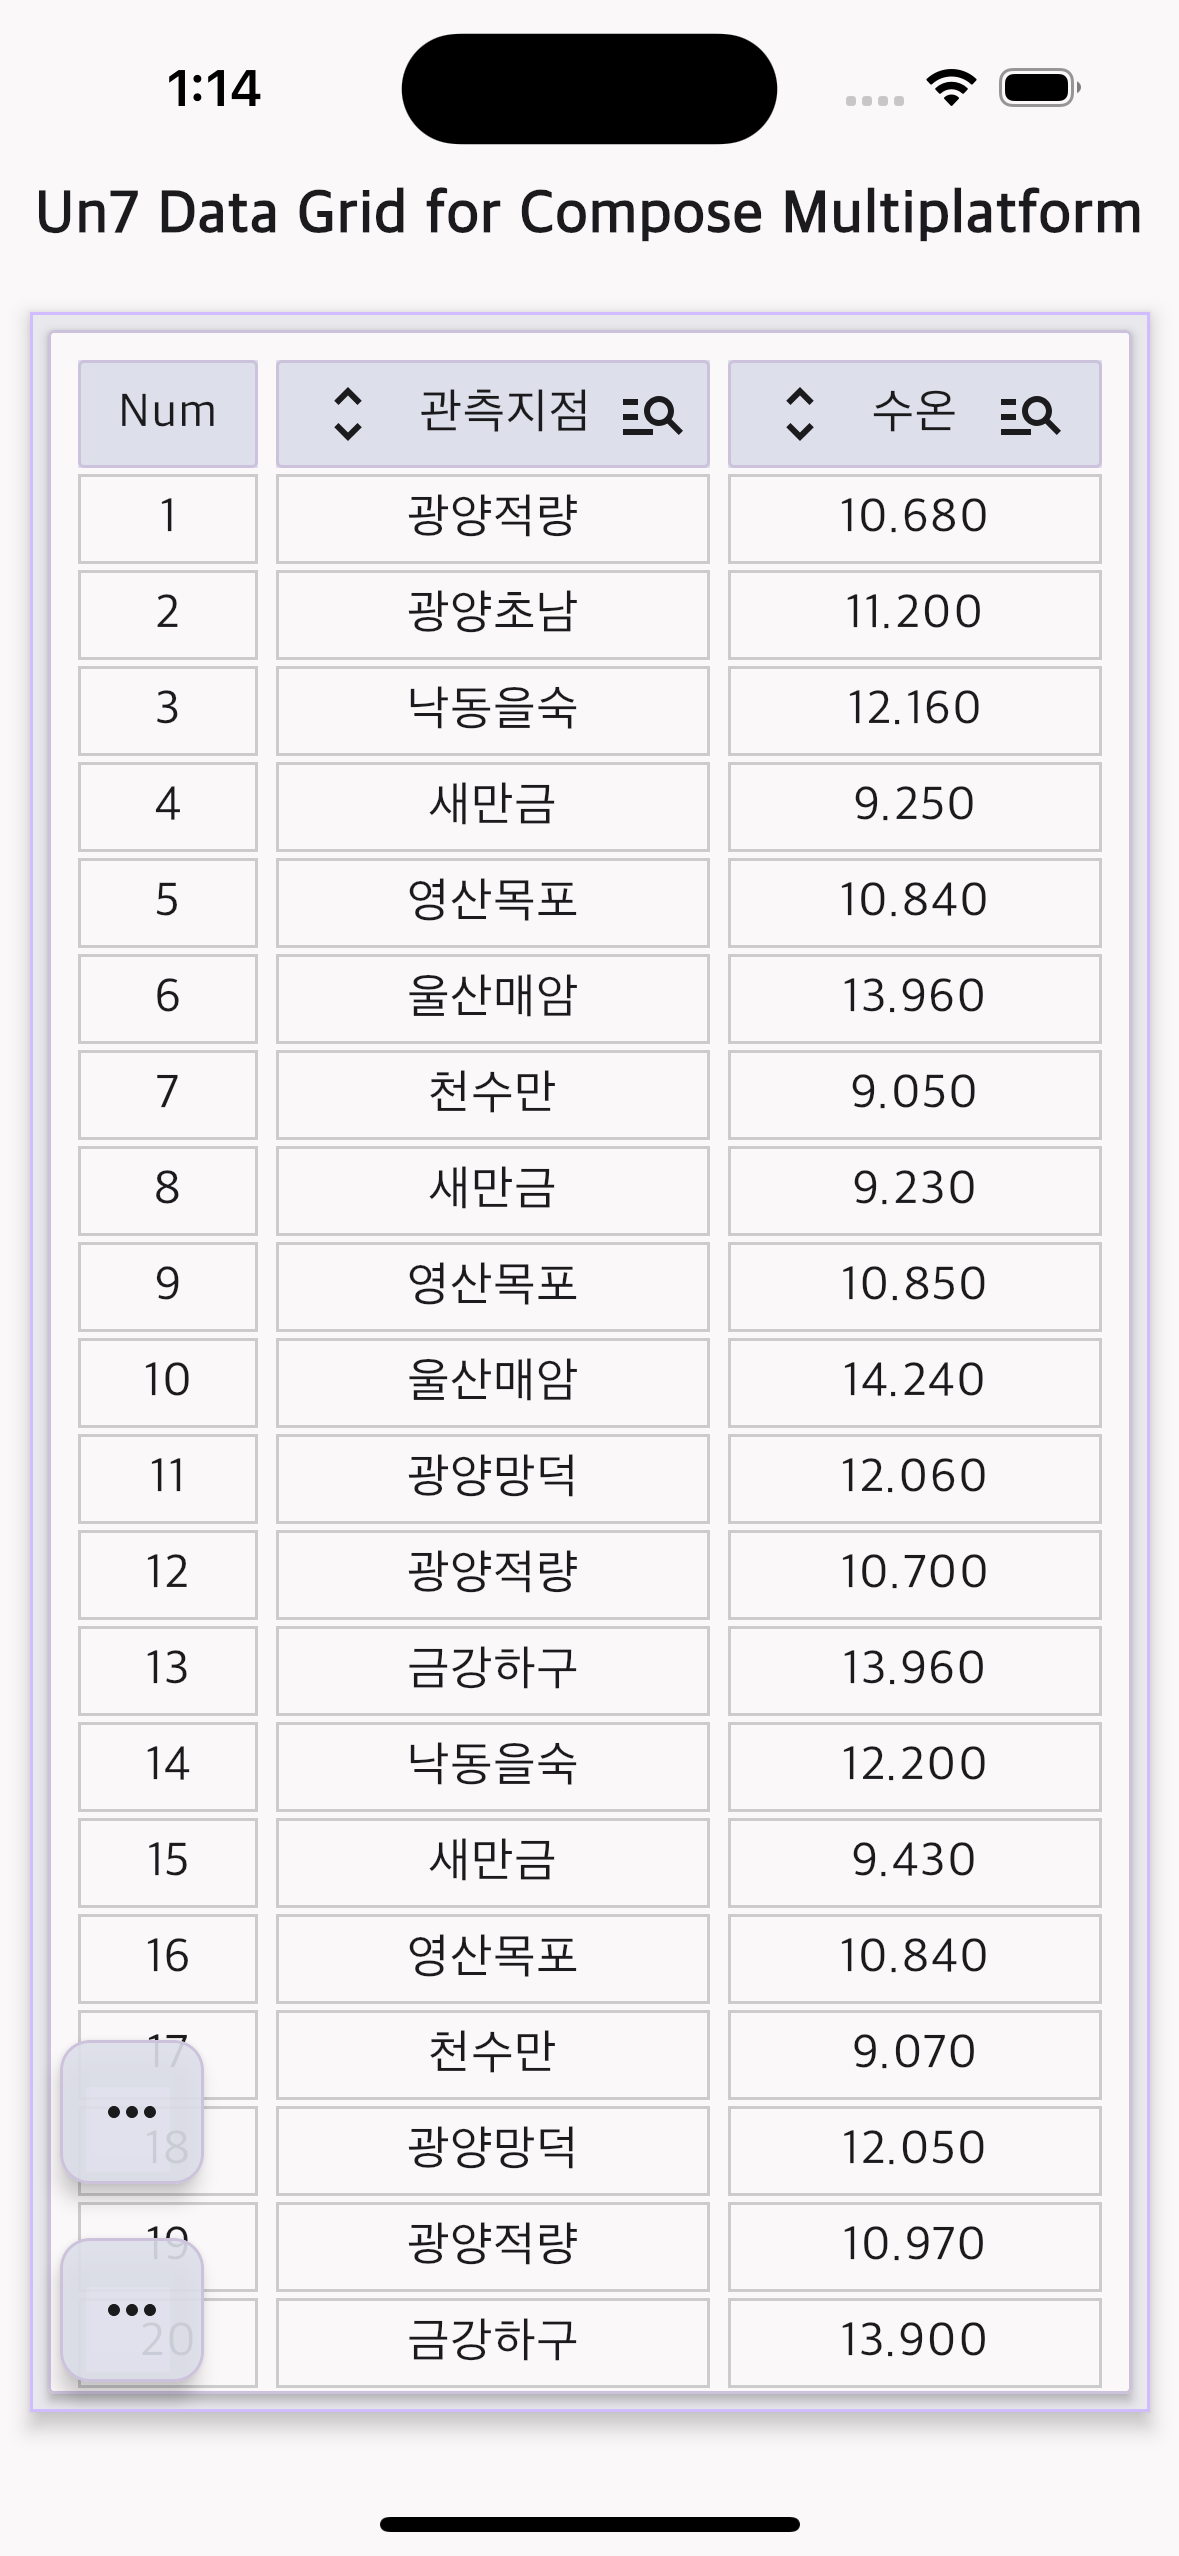
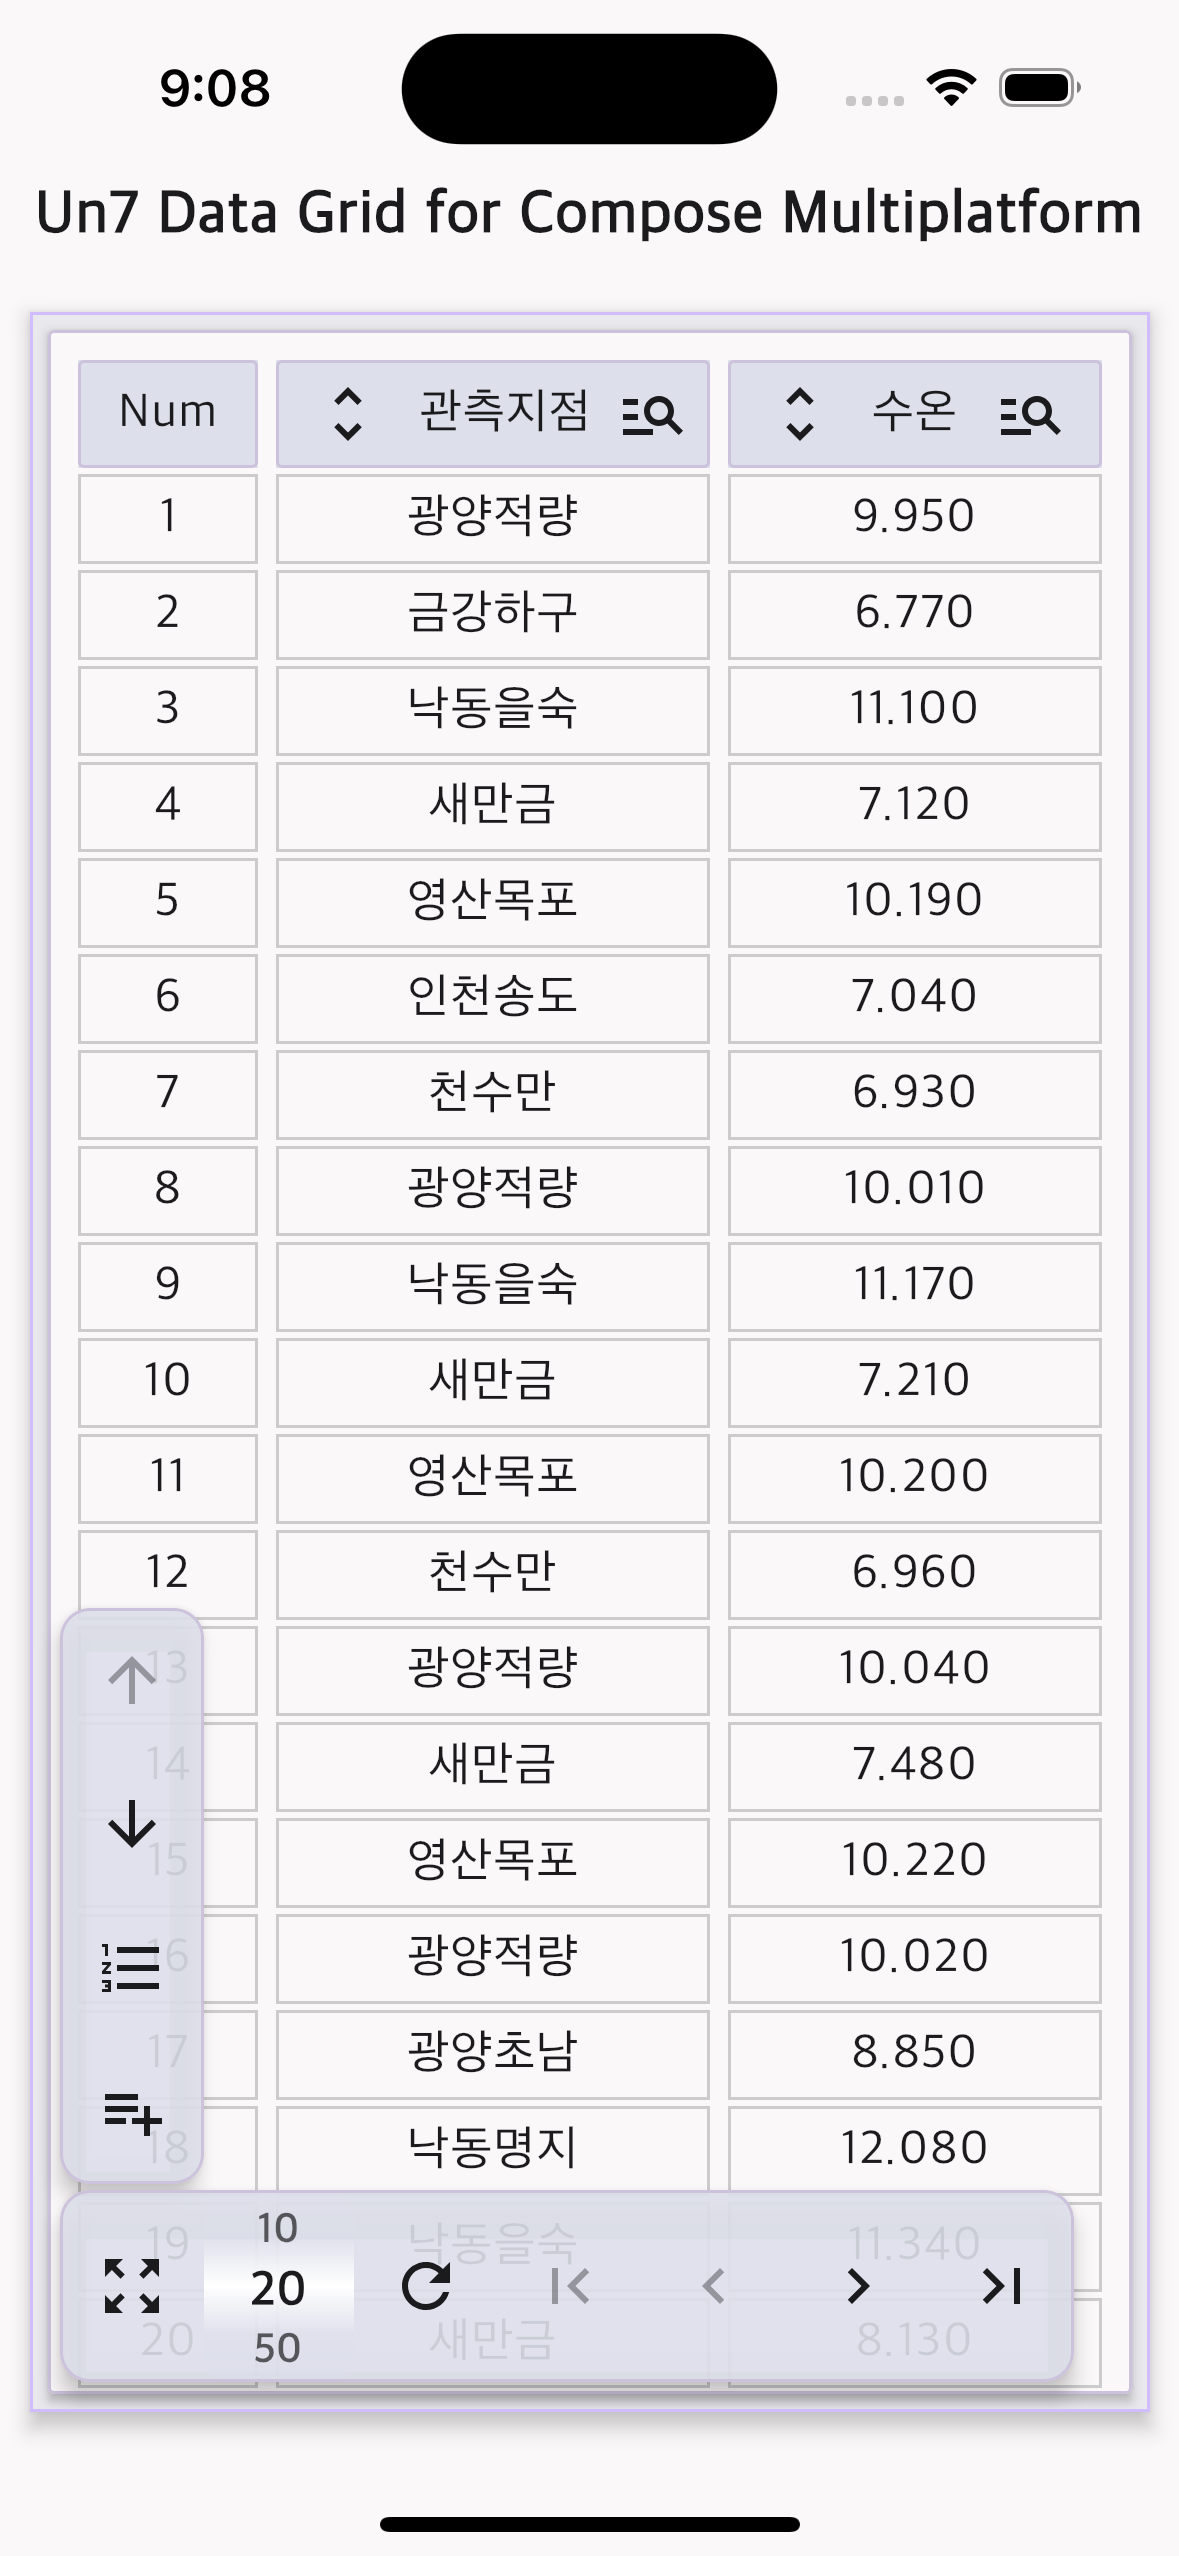
Initial commit

diff --git a/un7datagrid/src/commonMain/kotlin/com/unchil/un7datagrid/Un7KCMPMenuGridControl.kt b/un7datagrid/src/commonMain/kotlin/com/unchil/un7datagrid/Un7KCMPMenuGridControl.kt
@@ -6,6 +6,8 @@ import androidx.compose.animation.AnimatedVisibility
 import androidx.compose.foundation.BorderStroke
 import androidx.compose.foundation.background
 import androidx.compose.foundation.border
+import androidx.compose.foundation.layout.Arrangement
+import androidx.compose.foundation.layout.Column
 import androidx.compose.foundation.layout.Row
 import androidx.compose.foundation.lazy.LazyListState
 import androidx.compose.foundation.shape.RoundedCornerShape
@@ -23,6 +25,8 @@ import androidx.compose.material3.SegmentedButtonDefaults
 import androidx.compose.runtime.Composable
 import androidx.compose.runtime.InternalComposeApi
 import androidx.compose.runtime.MutableState
+import androidx.compose.runtime.mutableStateOf
+import androidx.compose.runtime.saveable.rememberSaveable
 import androidx.compose.ui.Alignment
 import androidx.compose.ui.Modifier
 import androidx.compose.ui.draw.shadow
@@ -38,10 +42,11 @@ internal fun Un7KCMPMenuGridControl(
     onUpdateColumns: () -> Unit,
     onListNavHandler: (ListNav) -> Unit,
     isVisibleRowNum: MutableState<Boolean>
-){
+) {
 
     val shape = RoundedCornerShape(10.dp)
-    Row (
+
+    Column(
         modifier = Modifier
             .shadow(elevation = 4.dp, shape = shape)
             .background(
@@ -49,55 +54,34 @@ internal fun Un7KCMPMenuGridControl(
                 shape = shape
             )
             .border(
-                border = BorderStroke(width = 1.dp, color = MaterialTheme.colorScheme.secondaryFixedDim),
+                border = BorderStroke(
+                    width = 1.dp,
+                    color = MaterialTheme.colorScheme.secondaryFixedDim
+                ),
                 shape = shape
             ),
-        verticalAlignment = Alignment.CenterVertically
+        verticalArrangement = Arrangement.Bottom
     ) {
 
-        IconButton(
-            onClick = { isExpandGridControlMenu.value = !isExpandGridControlMenu.value },
-        ) {
-
-
-            SegmentedButtonDefaults.Icon(
-                active = !isExpandGridControlMenu.value,
-                activeContent = {
-                    Icon(
-                       Icons.Default.MoreHoriz,
-                        contentDescription = ""
-                    )
-                },
-                inactiveContent = {
-                    Icon(
-                        Icons.Default.Clear,
-                        contentDescription = ""
-                    )
-                }
-            )
-
-        }
-
-
         AnimatedVisibility(visible = isExpandGridControlMenu.value) {
-            Row(verticalAlignment = Alignment.CenterVertically) {
 
+            Column {
                 IconButton(
-                    onClick = {onListNavHandler(ListNav.Top) },
+                    onClick = { onListNavHandler(ListNav.Top) },
                     enabled = lazyListState.canScrollBackward
                 ) {
                     Icon(
-                       Icons.Default.ArrowUpward,
+                        Icons.Default.ArrowUpward,
                         contentDescription = "First Row"
                     )
                 }
 
                 IconButton(
-                    onClick = {onListNavHandler(ListNav.Bottom) },
+                    onClick = { onListNavHandler(ListNav.Bottom) },
                     enabled = lazyListState.canScrollForward,
                 ) {
                     Icon(
-                       Icons.Default.ArrowDownward,
+                        Icons.Default.ArrowDownward,
                         contentDescription = "Last Row",
                     )
                 }
@@ -132,7 +116,9 @@ internal fun Un7KCMPMenuGridControl(
                 )
 
             }
+
         }
 
     }
+
 }

diff --git a/un7datagrid/src/commonMain/kotlin/com/unchil/un7datagrid/Un7KCMPMenuPageNavControl.kt b/un7datagrid/src/commonMain/kotlin/com/unchil/un7datagrid/Un7KCMPMenuPageNavControl.kt
@@ -3,6 +3,7 @@
 
 package com.unchil.un7datagrid
 
+
 import androidx.compose.animation.AnimatedVisibility
 import androidx.compose.foundation.BorderStroke
 import androidx.compose.foundation.background
@@ -14,16 +15,10 @@ import androidx.compose.material.icons.Icons
 import androidx.compose.material.icons.automirrored.filled.KeyboardArrowLeft
 import androidx.compose.material.icons.automirrored.filled.KeyboardArrowRight
 import androidx.compose.material.icons.automirrored.filled.LastPage
-import androidx.compose.material.icons.filled.Clear
-import androidx.compose.material.icons.filled.Close
 import androidx.compose.material.icons.filled.FirstPage
-import androidx.compose.material.icons.filled.HighlightOff
-import androidx.compose.material.icons.filled.LastPage
-import androidx.compose.material.icons.filled.MoreHoriz
 import androidx.compose.material.icons.filled.Refresh
-import androidx.compose.material.icons.filled.Start
-import androidx.compose.material.icons.filled.Stop
-import androidx.compose.material.icons.filled.SwipeLeftAlt
+import androidx.compose.material.icons.filled.ZoomInMap
+import androidx.compose.material.icons.filled.ZoomOutMap
 import androidx.compose.material3.Icon
 import androidx.compose.material3.IconButton
 import androidx.compose.material3.MaterialTheme
@@ -35,9 +30,6 @@ import androidx.compose.ui.Alignment
 import androidx.compose.ui.Modifier
 import androidx.compose.ui.draw.shadow
 import androidx.compose.ui.unit.dp
-
-
-import org.jetbrains.compose.resources.painterResource
 
 
 @Composable
@@ -72,13 +64,13 @@ internal fun Un7KCMPMenuPageNavControl(
                 active = !isExpandPageNavControlMenu.value,
                 activeContent = {
                     Icon(
-                        Icons.Default.MoreHoriz,
+                        Icons.Default.ZoomInMap,
                         contentDescription = "OpenBox"
                     )
                 },
                 inactiveContent = {
                     Icon(
-                        Icons.Default.Clear,
+                        Icons.Default.ZoomOutMap,
                         contentDescription = "CloseBox"
                     )
                 }

diff --git a/un7datagrid/src/commonMain/kotlin/com/unchil/un7datagrid/Un7KCMPDataGrid.kt b/un7datagrid/src/commonMain/kotlin/com/unchil/un7datagrid/Un7KCMPDataGrid.kt
@@ -67,7 +67,6 @@ fun Un7KCMPDataGrid(
     val columnDataSortFlag by viewModel.columnDataSortFlag.collectAsState()
 
     val isVisibleRowNum = remember { mutableStateOf(true) }
-    val isExpandGridControlMenu = rememberSaveable {mutableStateOf(false) }
     val isExpandPageNavControlMenu = rememberSaveable {mutableStateOf(false) }
 
     val borderStrokeTransparent = remember {BorderStroke(width = 0.dp, color = Color.Transparent)}
@@ -346,10 +345,11 @@ fun Un7KCMPDataGrid(
                                 modifier = Modifier
                                     .padding(paddingMenuGridControl)
                                     //    .border(borderStrokeRed, shape = borderShapeIn)
-                                    .align(Alignment.BottomStart)
+                                    .align(Alignment.BottomStart),
+
                             ) {
                                 Un7KCMPMenuGridControl(
-                                    isExpandGridControlMenu,
+                                    isExpandPageNavControlMenu,
                                     lazyListState,
                                     viewModel.data.keys.toList(),
                                     selectedColumns,
@@ -357,6 +357,7 @@ fun Un7KCMPDataGrid(
                                     onListNavHandler,
                                     isVisibleRowNum
                                 )
+
                             }//Box  MenuPageNavControl
 
                             SnackbarHost(

diff --git a/un7datagrid/src/commonMain/kotlin/com/unchil/un7datagrid/Un7KCMPDataGridViewModel.kt b/un7datagrid/src/commonMain/kotlin/com/unchil/un7datagrid/Un7KCMPDataGridViewModel.kt
@@ -328,7 +328,12 @@ class Un7KCMPDataGridViewModel(val data: Map<String,List<Any?>>): ViewModel() {
         columnWeights.value = List(columnNames.value.size) { 1f / columnNames.value.size  }
         columnDataSortFlag.value = List(columnNames.value.size) { 0  }
         lastPageIndex.value = getLastPageIndex(dataRows.value.size, pageSize.value)
-        pageSize.value = selectPageSizeList.get(selectPageSizeIndex.value).toInt()
+        pageSize.value = if(selectPageSizeList.get(selectPageSizeIndex.value).equals("All")){
+            dataRows.value.size
+        }else {
+            selectPageSizeList.get(selectPageSizeIndex.value).toInt()
+        }
+
         closerFunc()
     }
 
